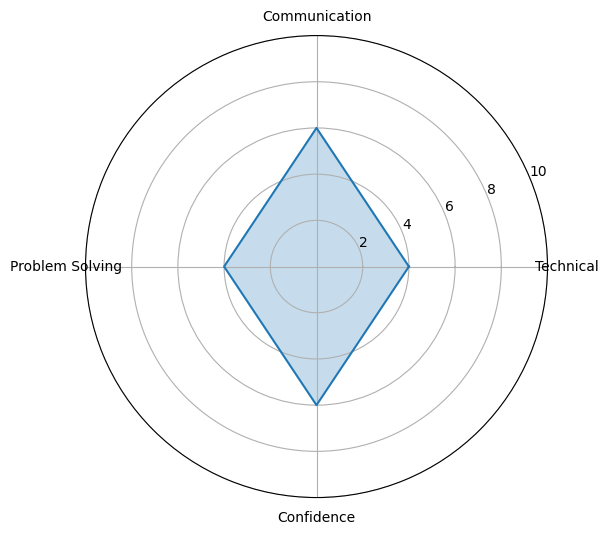
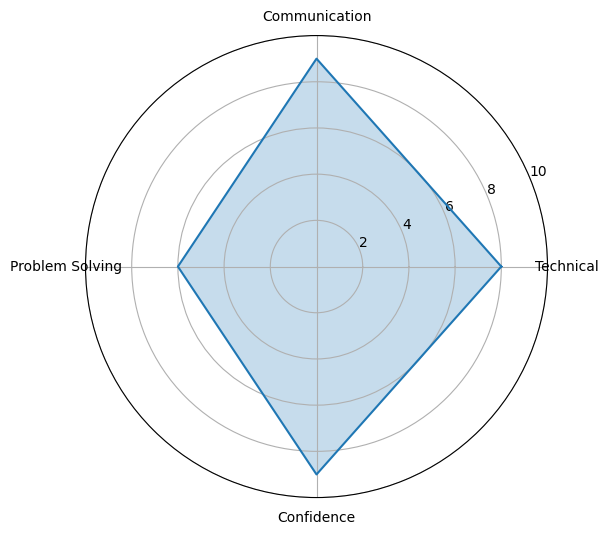
Added AI-powered interview analytics dashboard and enhanced PDF reporting

Changed region(s): [[0.2812, 0.0899, 0.8438, 0.8989]]

diff --git a/main.py b/main.py
@@ -1,5 +1,5 @@
 import streamlit as st
-
+import time
 from app.services.report_service import (
     generate_report
 )
@@ -26,22 +26,63 @@ st.set_page_config(
     layout="wide"
 )
 
-st.title("Mock Interview AI")
-
+st.markdown(
+    """
+    <h1 style='
+        font-size:48px;
+        font-weight:700;
+        color:#F8F9F9;
+        margin-bottom:0;
+    '>
+        Mock Interview AI
+    </h1>
+    """,
+    unsafe_allow_html=True
+)
+st.markdown(
+    """
+    <p style='
+        font-size:18px;
+        color:#D5D8DC;
+        margin-top:0;
+        margin-bottom:10px;
+    '>
+        AI-powered interview preparation platform
+        with intelligent evaluation analytics.
+    </p>
+    """,
+    unsafe_allow_html=True
+)
 st.markdown("""
-Practice AI-powered mock interviews tailored to your resume and target role.
-""")
+<style>
+hr {
+    margin-top: 10px;
+    margin-bottom: 10px;
+}
+</style>
+""", unsafe_allow_html=True)
+st.divider()
 
 
 st.sidebar.title("Mock Interview AI")
 
-st.sidebar.markdown("""
-### Features
-- Resume Upload
-- AI Question Generation
-- Answer Evaluation
-- Personalized Feedback
-""")
+st.sidebar.markdown(
+    """
+    ## Platform Features
+
+    ✅ Resume Analysis
+
+    ✅ AI Question Generation
+
+    ✅ Adaptive Difficulty Levels
+
+    ✅ AI-Powered Evaluation
+
+    ✅ Analytics Dashboard
+
+    ✅ Executive PDF Reports
+    """
+)
 
 
 role = st.selectbox(
@@ -62,6 +103,11 @@ difficulty = st.selectbox(
         "Advanced"
     ]
 )
+timer_minutes = st.selectbox(
+    "Interview Timer (Minutes)",
+    [1, 2, 5, 10]
+)
+
 
 uploaded_file = st.file_uploader(
     "Upload your resume (PDF only)",
@@ -72,6 +118,9 @@ uploaded_file = st.file_uploader(
 if "questions" not in st.session_state:
     st.session_state.questions = None
 
+if "start_time" not in st.session_state:
+
+    st.session_state.start_time = None
 
 if uploaded_file is not None:
 
@@ -100,6 +149,7 @@ if uploaded_file is not None:
 
     if st.button(
         "Generate Interview Questions"
+        
     ):
 
         st.session_state.questions = (
@@ -110,13 +160,35 @@ if uploaded_file is not None:
                 difficulty
             )
         )
+        import time
+
+        st.session_state.start_time = (
+        time.time()
+)
 
     if st.session_state.questions:
 
         for index, question in enumerate(
             st.session_state.questions
         ):
+            if st.session_state.start_time:
+                elapsed_time = (
+                time.time()
+            -   st.session_state.start_time
+)
 
+            remaining_time = max(
+            0,
+            timer_minutes * 60 - int(elapsed_time)
+)
+
+            minutes = remaining_time // 60
+
+            seconds = remaining_time % 60
+
+            st.warning(
+            f"⏳ Time Remaining: {minutes:02}:{seconds:02}"
+)
             feedback_key = (
                 f"feedback_{index}"
             )
@@ -155,26 +227,80 @@ if uploaded_file is not None:
 
                 with col1:
 
-                    st.metric(
-                        "Technical Knowledge",
-                        f"{st.session_state[feedback_key]['technical_score']}/10"
+                    st.markdown(
+                            f"""
+                        <div style="
+                            background-color:#1F618D;
+                            padding:20px;
+                            border-radius:15px;
+                            text-align:center;
+                            color:white;
+                            margin-bottom:15px;
+                        ">
+                            <h3>Technical Knowledge</h3>
+                            <h1>
+                                {st.session_state[feedback_key]['technical_score']}/10
+                            </h1>
+                        </div>
+                        """,
+                        unsafe_allow_html=True
                     )
 
-                    st.metric(
-                        "Problem Solving",
-                        f"{st.session_state[feedback_key]['problem_solving']}/10"
+                    st.markdown(
+                        f"""
+                        <div style="
+                            background-color:#117864;
+                            padding:20px;
+                            border-radius:15px;
+                            text-align:center;
+                            color:white;
+                        ">
+                            <h3>Problem Solving</h3>
+                            <h1>
+                                {st.session_state[feedback_key]['problem_solving']}/10
+                            </h1>
+                        </div>
+                        """,
+                        unsafe_allow_html=True
                     )
 
                 with col2:
 
-                    st.metric(
-                        "Communication",
-                        f"{st.session_state[feedback_key]['communication_score']}/10"
+                    st.markdown(
+                        f"""
+                        <div style="
+                            background-color:#7D3C98;
+                            padding:20px;
+                            border-radius:15px;
+                            text-align:center;
+                            color:white;
+                            margin-bottom:15px;
+                        ">
+                            <h3>Communication</h3>
+                            <h1>
+                                {st.session_state[feedback_key]['communication_score']}/10
+                            </h1>
+                        </div>
+                        """,
+                        unsafe_allow_html=True
                     )
 
-                    st.metric(
-                        "Confidence",
-                        f"{st.session_state[feedback_key]['confidence']}/10"
+                    st.markdown(
+                        f"""
+                        <div style="
+                            background-color:#CA6F1E;
+                            padding:20px;
+                            border-radius:15px;
+                            text-align:center;
+                            color:white;
+                        ">
+                            <h3>Confidence</h3>
+                            <h1>
+                                {st.session_state[feedback_key]['confidence']}/10
+                            </h1>
+                        </div>
+                        """,
+                        unsafe_allow_html=True
                     )
                     chart = create_radar_chart(
                             st.session_state[
@@ -209,7 +335,7 @@ if uploaded_file is not None:
 
                     st.info(improvement)
 
-                    st.divider()
+                st.divider()
 
     latest_feedback = None
 
